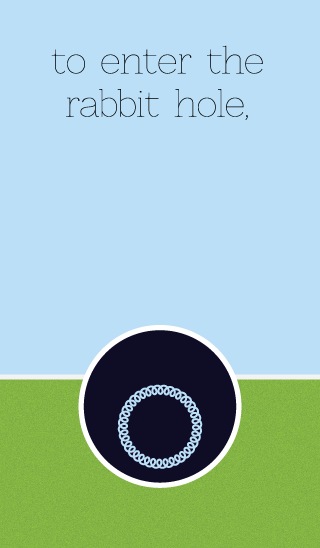
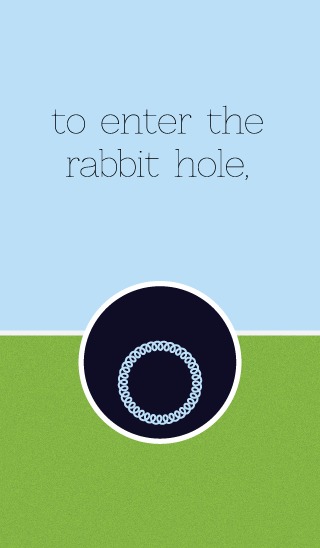
resized first two views & fixed rabbit

diff --git a/DonsDiscoveryApp/BunnyTail.m b/DonsDiscoveryApp/BunnyTail.m
@@ -32,7 +32,7 @@
 
 -(void)rabbitTailBounce{
     
-    CGPoint leftPos = CGPointMake(160, 200);
+    CGPoint leftPos = CGPointMake(160, 238);
     self.center = leftPos;
 
     
@@ -54,10 +54,17 @@
                                           }
                                           completion:^(BOOL finished){
                                                   
-                                              CGAffineTransform rotateTransform = CGAffineTransformRotate(CGAffineTransformMakeRotation(0), 5);
-                                              
-                                              self.transform = rotateTransform;
-                                              NSLog(@"Done!");
+                                              [UIView animateWithDuration:0.5
+                                                                    delay:0.1
+                                                                  options: ((UIViewAnimationOptions)(UIViewAnimationCurveEaseOut))
+                                                               animations:^{
+                                                                   
+                                                                   self.transform = CGAffineTransformMakeRotation(20 * M_PI/180);
+                                                               }
+                                                               completion:^(BOOL finished){
+                                                                   
+                                                                   NSLog(@"Done!");
+                                                               }];
                                           }];
                      }];
 
